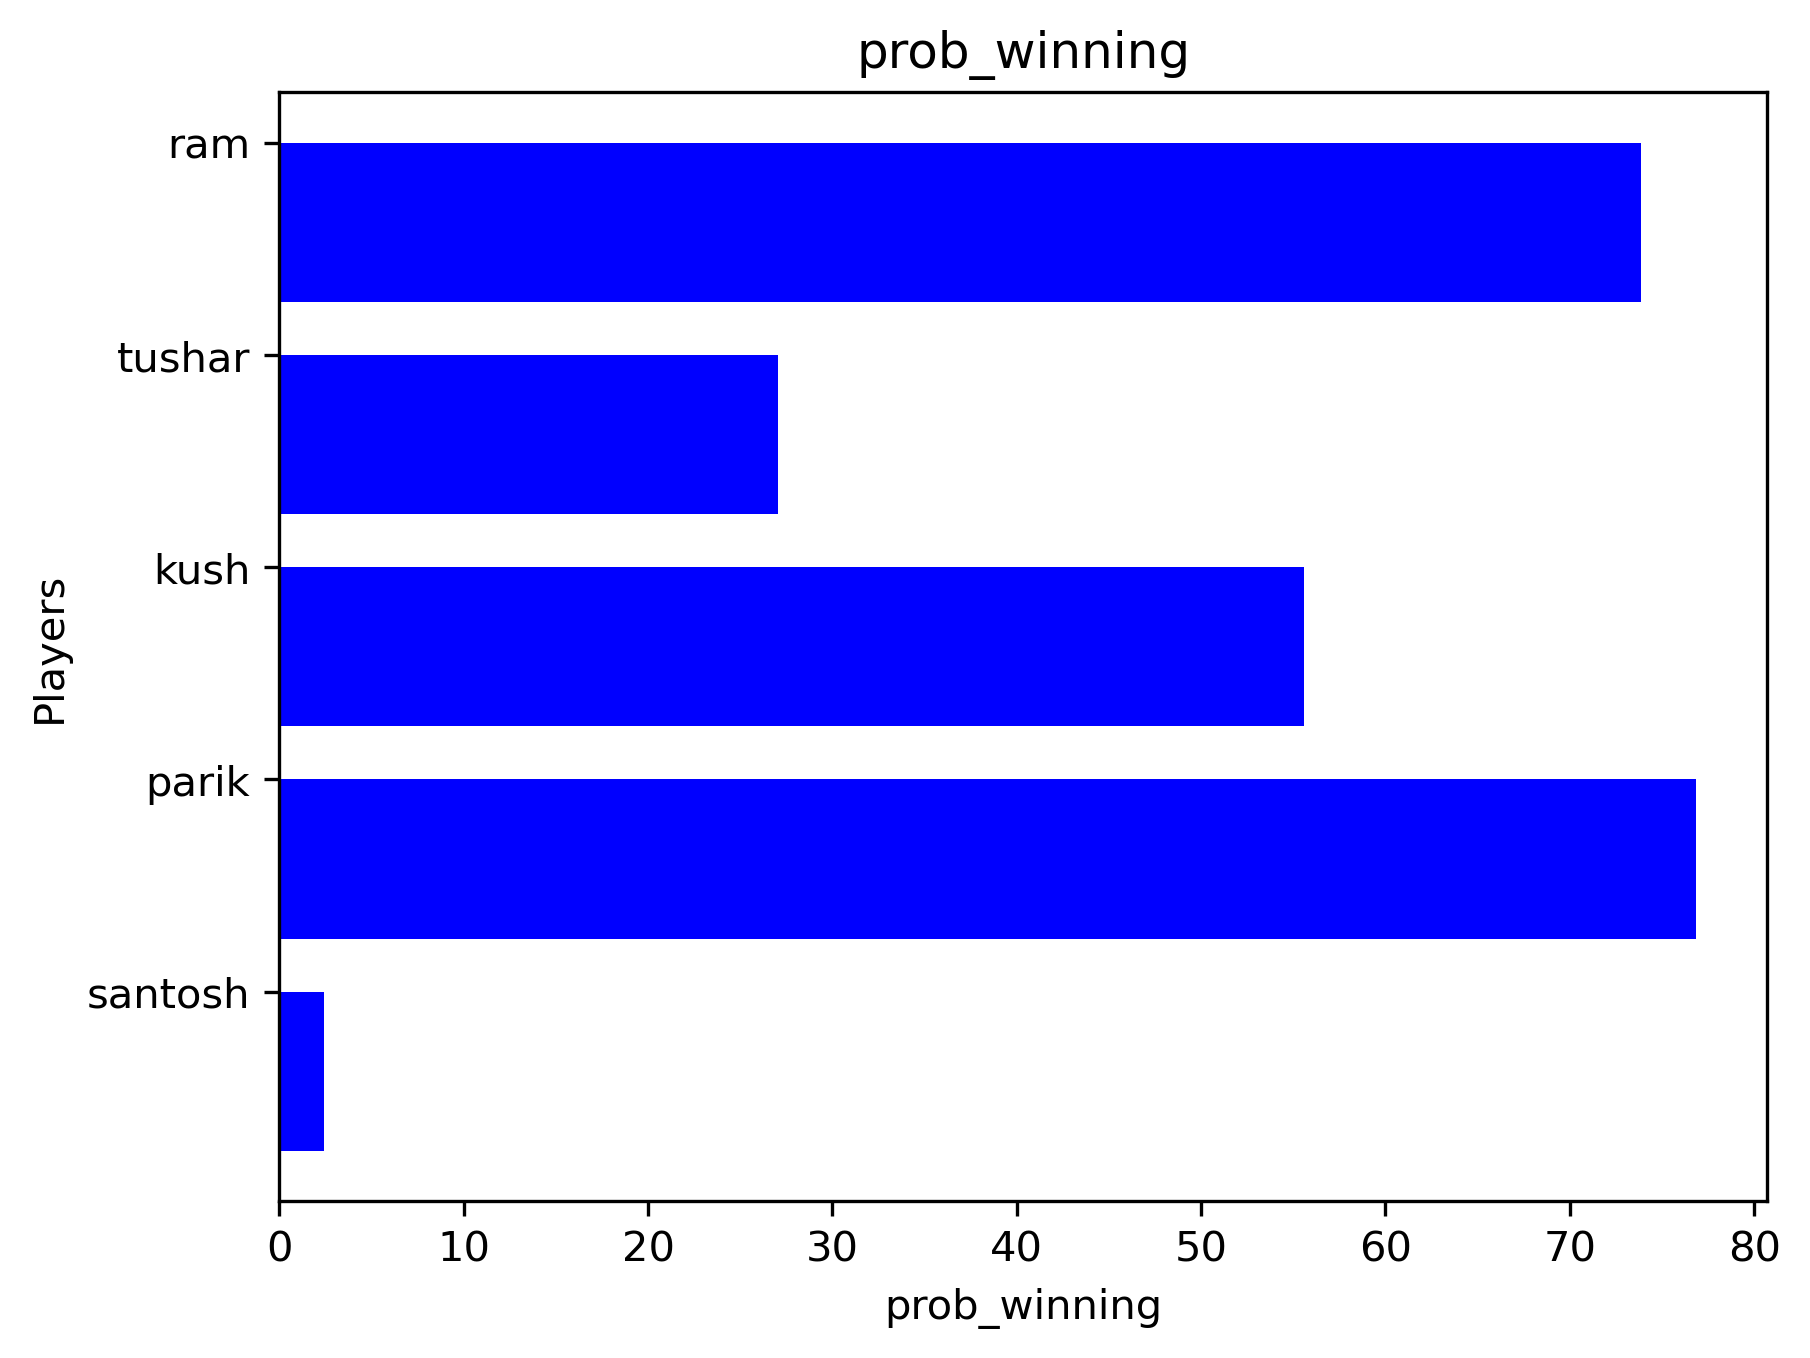
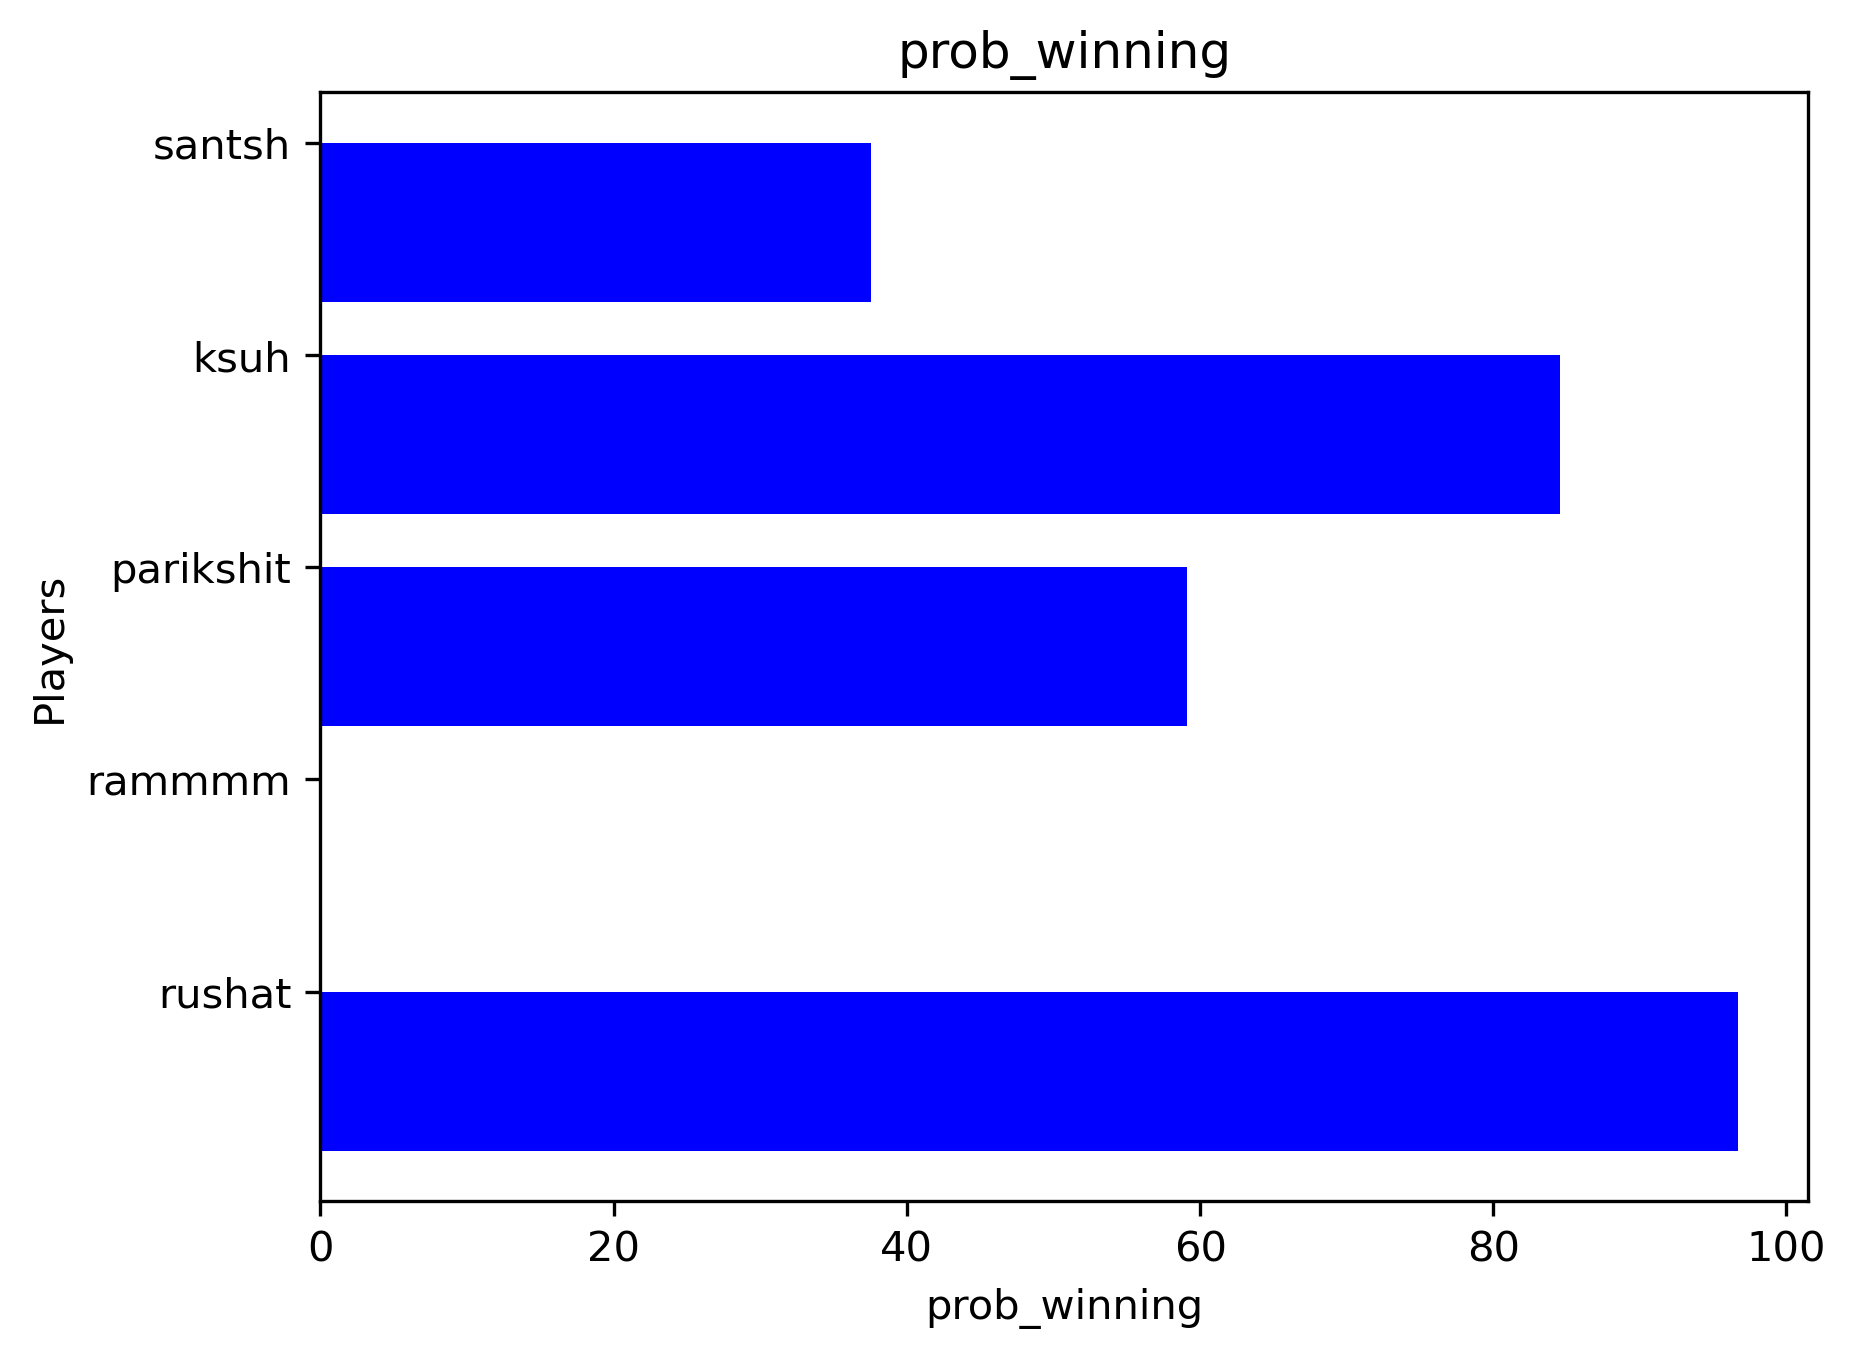
updated update function

diff --git a/final.py b/final.py
@@ -989,10 +989,10 @@ def main():
 
             self.prob = Label(self.prob_frame, bg="forest green")
             self.prob.place(relwidth=1, relheight=1)
-            prob_graph = ImageTk.PhotoImage(
-                Image.open("cards\\test.png").resize((350, 220), Image.ANTIALIAS))
-            self.prob.image = prob_graph
-            self.prob.configure(image=prob_graph)
+            # prob_graph = ImageTk.PhotoImage(
+            #     Image.open("cards\\test.png").resize((350, 220), Image.ANTIALIAS))
+            # self.prob.image = prob_graph
+            # self.prob.configure(image=prob_graph)
 
             # self.entry.bind("<Return>", lambda _: self.button_click(self.entry.get()))
 
@@ -1285,6 +1285,13 @@ def main():
                 self.card1_p4.image = card1
                 self.card1_p4.configure(image=card1)
 
+            except IndexError:
+                pass
+            try:
+                prob = ImageTk.PhotoImage(
+                    Image.open("cards\\test.png").resize((200,200),Image.ANTIALIAS))
+                self.prob.image = prob
+                self.prob.configure(image=prob)
             except IndexError:
                 pass
             try:
